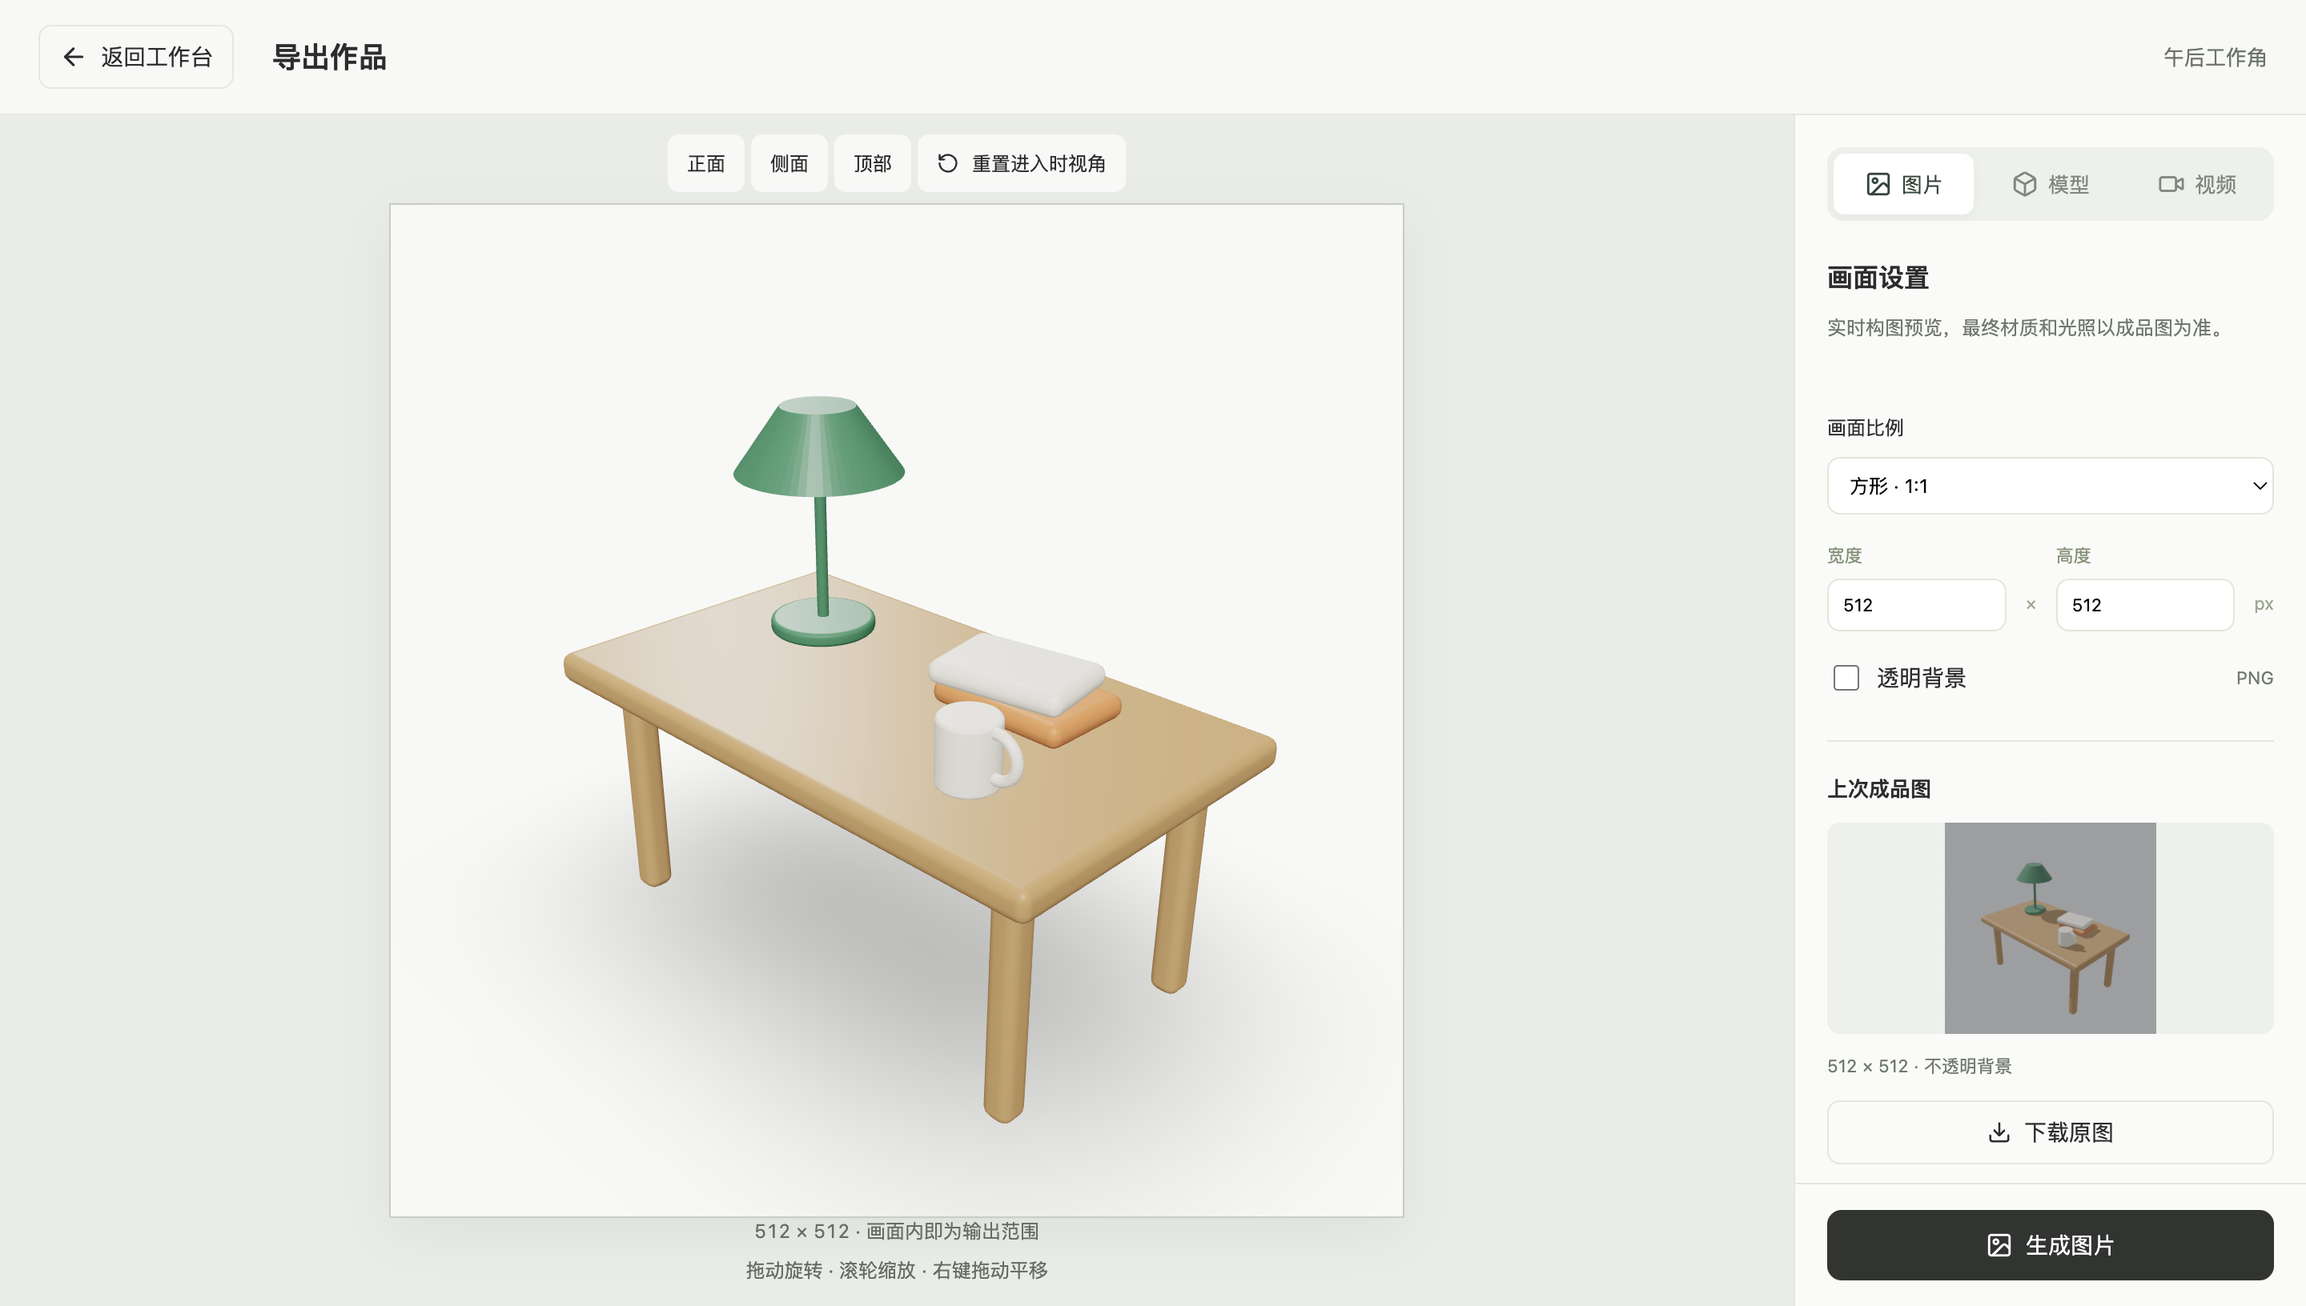
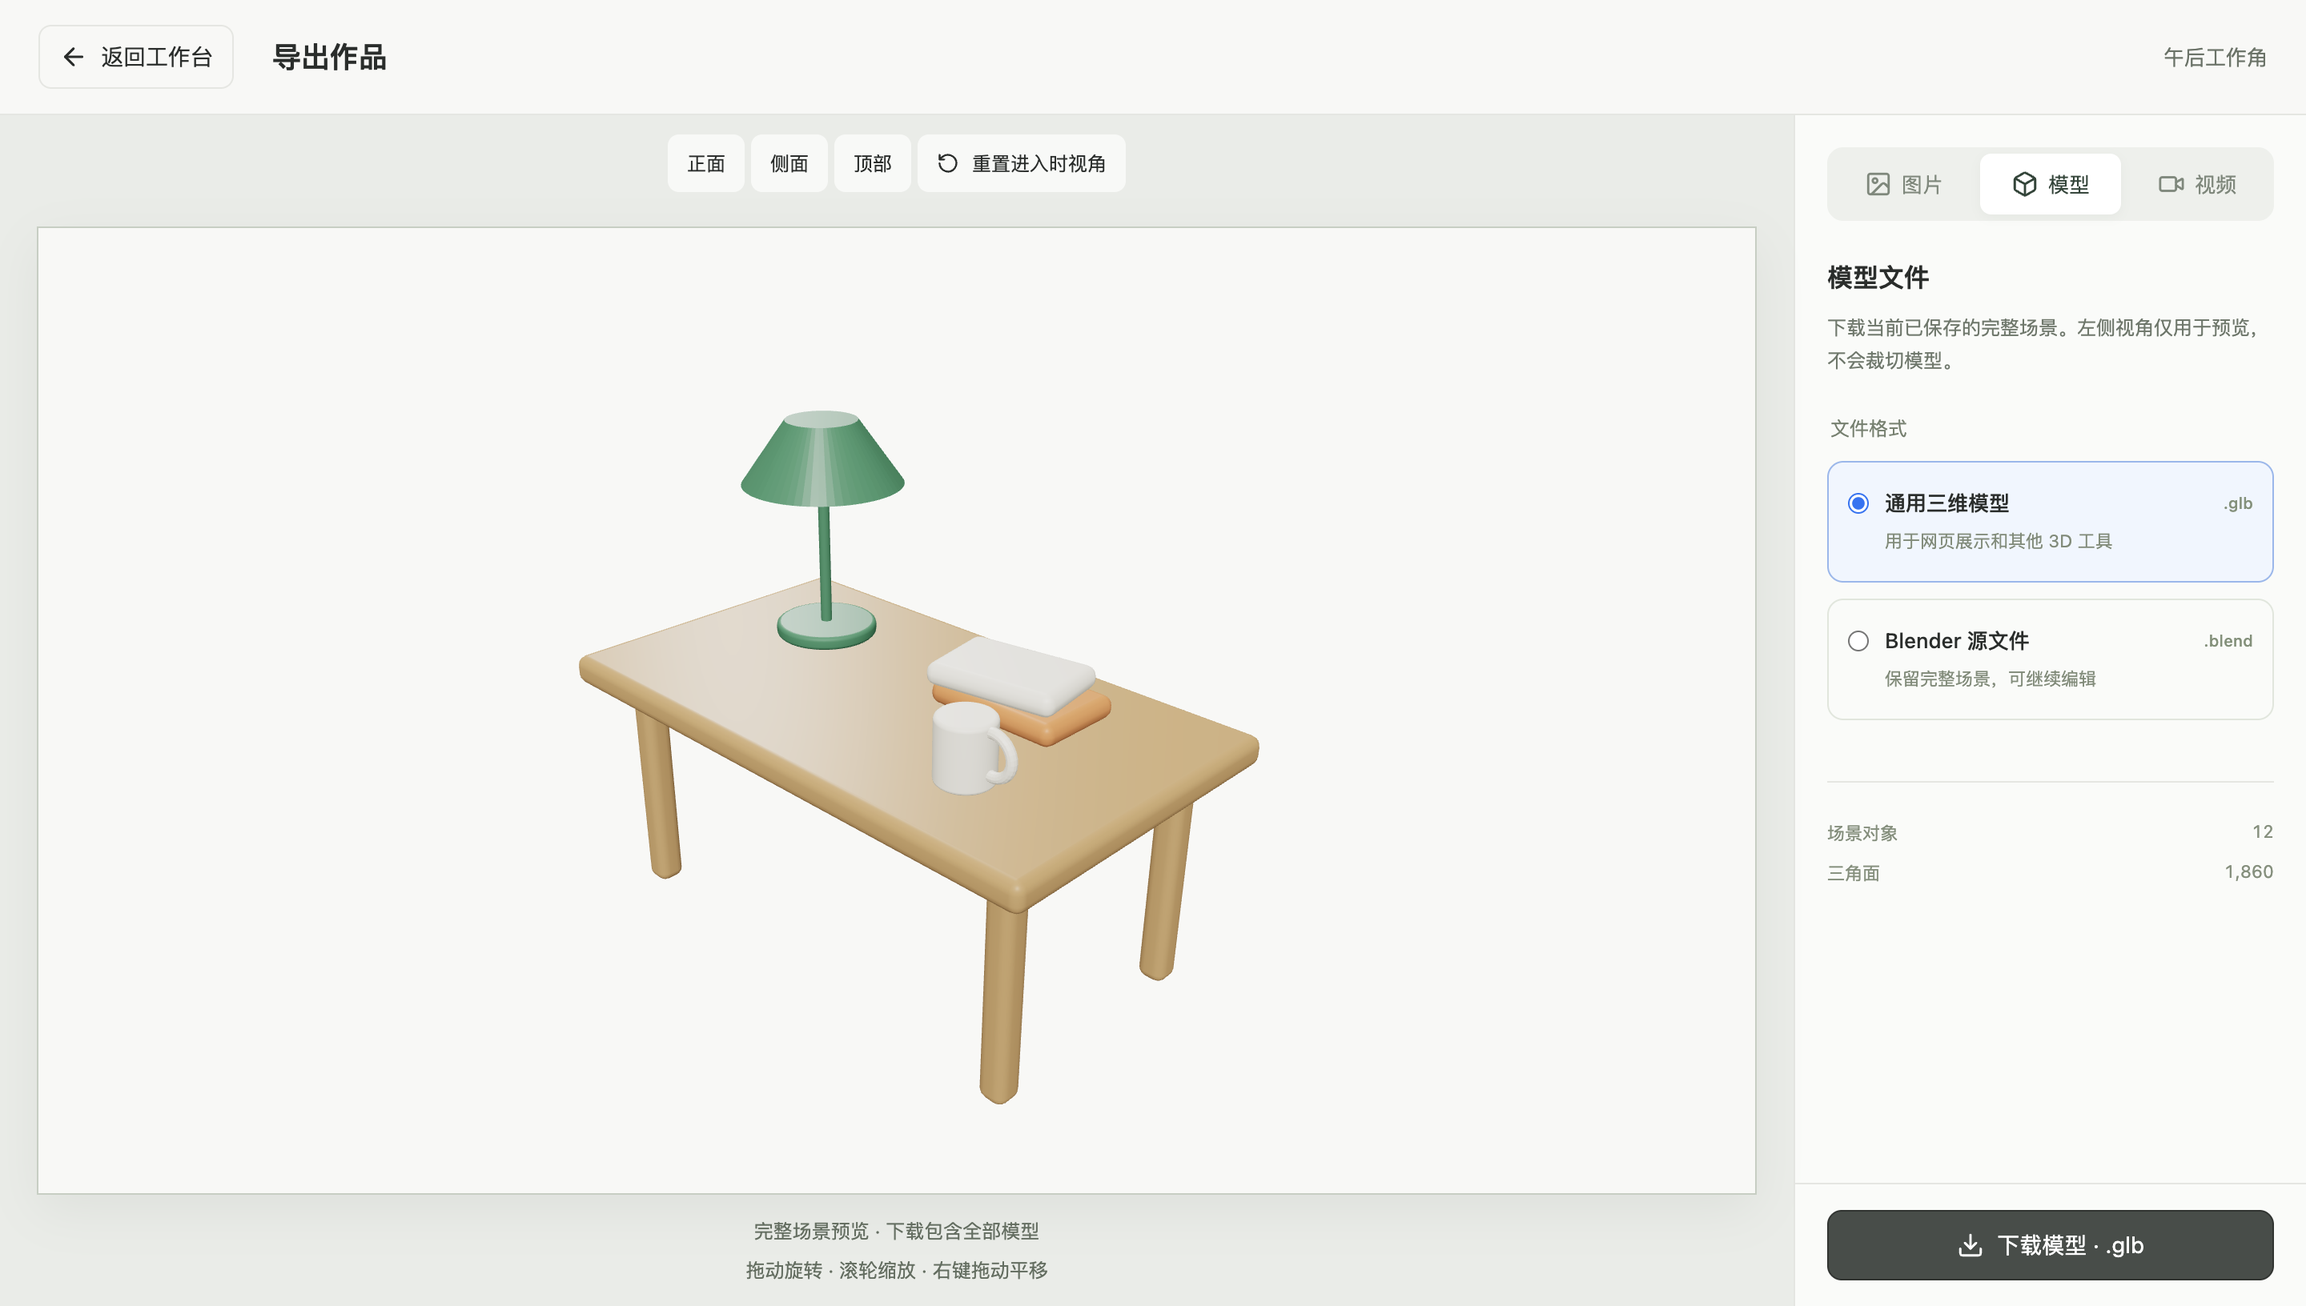
fix(render): preserve authored lighting and use clean grid previews

diff --git a/server/projects.ts b/server/projects.ts
@@ -13,29 +13,26 @@ import {
   project,
   put,
 } from "./store";
-import type { Job, Project, Revision, Render } from "../src/types";
+import type { Job, Project, Revision } from "../src/types";
 
 export function projectLibrary(trash = false) {
   return list<Project>("project")
     .filter((p) => !!p.deletedAt === trash)
     .map((p) => {
       const revisions = list<Revision>("revision", p.id);
-      const render = list<Render>("render", p.id).reverse().find((r) => r.revisionId === p.currentRevisionId);
       return {
         ...p,
         updatedAt: p.updatedAt || revisions.at(-1)?.createdAt || p.createdAt,
         activeJob: activeJob(p.id),
-        coverUrl:
-          render?.revisionId === p.currentRevisionId
-            ? `/api/artifacts/${render.artifactId}`
-            : savedCover(p.id, p.currentRevisionId),
+        coverUrl: savedCover(p.id, p.currentRevisionId),
       };
     })
     .sort((a, b) => b.updatedAt.localeCompare(a.updatedAt));
 }
 export function trashProject(id: string, restore = false) {
   const p = project(id, true);
-  if (blenderBridge.matches(id)) throw new Error("请先同步或另存 Blender 修改并断开连接，再移除作品");
+  if (blenderBridge.matches(id))
+    throw new Error("请先同步或另存 Blender 修改并断开连接，再移除作品");
   if (activeJob(id) || videoUploads.has(id))
     throw Object.assign(new Error("作品正在执行任务，请先等待完成或停止任务"), {
       statusCode: 409,
@@ -53,7 +50,8 @@ export function trashProject(id: string, restore = false) {
 }
 export function purgeProject(id: string) {
   const p = project(id, true);
-  if (blenderBridge.matches(id)) throw new Error("请先同步或另存 Blender 修改并断开连接，再移除作品");
+  if (blenderBridge.matches(id))
+    throw new Error("请先同步或另存 Blender 修改并断开连接，再移除作品");
   if (!p.deletedAt || activeJob(id) || videoUploads.has(id))
     throw Object.assign(new Error("请先将空闲作品移入回收站"), {
       statusCode: 409,

diff --git a/src/Viewport.tsx b/src/Viewport.tsx
@@ -3,7 +3,6 @@ import {
   OrbitControls,
   TransformControls,
   Grid,
-  ContactShadows,
   GizmoHelper,
   GizmoViewport,
 } from "@react-three/drei";
@@ -45,6 +44,7 @@ export type ViewportProps = {
   frameAspect?: number;
   imageAspect?: number;
   transparentPreview?: boolean;
+  showGrid?: boolean;
   controlsEnabled?: boolean;
 };
 const C = new THREE.Matrix4().makeRotationX(-Math.PI / 2),
@@ -360,16 +360,16 @@ function Content({
         <directionalLight position={[4, 7, 5]} intensity={2.5} />
         <directionalLight position={[-4, 3, -3]} intensity={1} />
       </>}
-      {!props.readOnly && (
+      {props.showGrid !== false && !props.transparentPreview && (
         <Grid
           infiniteGrid
           position={[0, -0.006, 0]}
           cellSize={0.25}
           sectionSize={1}
-          cellColor="#dfdfdc"
-          sectionColor="#cfcfca"
-          cellThickness={0.5}
-          sectionThickness={0.8}
+          cellColor="#d9dfdc"
+          sectionColor="#aebbb5"
+          cellThickness={0.6}
+          sectionThickness={1}
           fadeDistance={20}
           fadeStrength={1.5}
         />
@@ -395,18 +395,6 @@ function Content({
             while (n && !n.userData.forma_id) n = n.parent;
             props.onSelect(n?.userData.forma_id || null);
           }}
-        />
-      )}
-      {group && (
-        <ContactShadows
-          key={props.url || "empty"}
-          position={[0, -0.003, 0]}
-          opacity={0.3}
-          scale={20}
-          blur={2.5}
-          far={8}
-          resolution={512}
-          frames={1}
         />
       )}
       <OrbitControls

diff --git a/server/covers.ts b/server/covers.ts
@@ -4,7 +4,13 @@ import sharp from "sharp";
 import { DATA } from "./config";
 import { db, get, project, put, revision, uid } from "./store";
 
-type Cover = { id: string; projectId: string; artifactId: string };
+const COVER_STYLE_VERSION = 2;
+type Cover = {
+  id: string;
+  projectId: string;
+  artifactId: string;
+  styleVersion?: number;
+};
 type ImageArtifact = {
   id: string;
   projectId: string;
@@ -18,6 +24,7 @@ export function savedCover(projectId: string, revisionId: string | null) {
   const cover = get<Cover>("cover", revisionId);
   const image = cover && get<ImageArtifact>("artifact", cover.artifactId);
   return cover?.projectId === projectId &&
+    cover.styleVersion === COVER_STYLE_VERSION &&
     image?.projectId === projectId &&
     fs.existsSync(image.path)
     ? `/api/artifacts/${image.id}`
@@ -69,7 +76,12 @@ export async function saveCover(
         mime: "image/jpeg",
         name: "作品封面.jpg",
       });
-      put("cover", { id: revisionId, projectId, artifactId: id });
+      put("cover", {
+        id: revisionId,
+        projectId,
+        artifactId: id,
+        styleVersion: COVER_STYLE_VERSION,
+      });
     })();
   } catch (error) {
     fs.rmSync(file, { force: true });

diff --git a/src/App.tsx b/src/App.tsx
@@ -527,6 +527,7 @@ export function App() {
             controlsEnabled={!imageExport || !busy}
             imageAspect={imageExport ? compositionAspect : undefined}
             transparentPreview={transparentExport}
+            showGrid={!recording && !imageExport}
             onCameraChange={onCameraChange}
             frameAspect={imageExport ? undefined : recording?recording.width/recording.height:renderView ? frameAspect : undefined}
             onSelect={id=>{if(!recording&&!imageExport)selectObject(id)}}

diff --git a/scripts/verify-render-lighting.py b/scripts/verify-render-lighting.py
@@ -1,0 +1,52 @@
+"""Run with Blender --background --factory-startup --python this_file.
+Verifies export preparation preserves authored lighting without saving a scene.
+"""
+import bpy
+import json
+import pathlib
+import sys
+sys.path.insert(0, str(pathlib.Path(__file__).resolve().parent.parent / 'blender'))
+from appearance import ensure_render_lighting
+
+scene = bpy.context.scene
+world = scene.world
+world.use_nodes = True
+background = world.node_tree.nodes.get('Background')
+background.inputs['Color'].default_value = (.105, .125, .15, 1)
+background.inputs['Strength'].default_value = .45
+scene.view_settings.view_transform = 'AgX'
+scene.view_settings.exposure = -.3
+light = next(o for o in scene.objects if o.type == 'LIGHT')
+light.data.energy = 1100
+light.data.color = (1, .85, .66)
+light.data.shadow_soft_size = 1.5
+
+def snapshot():
+    return (scene.world.as_pointer(), list(background.inputs['Color'].default_value),
+            background.inputs['Strength'].default_value,
+            [(l.from_node.name, l.from_socket.name, l.to_node.name, l.to_socket.name)
+             for l in world.node_tree.links],
+            [(o.name, o.data.type, o.data.energy, tuple(o.data.color), o.hide_render,
+              tuple(o.matrix_world[:])) for o in scene.objects if o.type == 'LIGHT'],
+            scene.view_settings.view_transform, scene.view_settings.exposure)
+
+before = snapshot()
+ensure_render_lighting(scene)
+assert snapshot() == before, 'Legacy authored world or lights changed during export'
+# Linked environment inputs and later edits take precedence over old metadata.
+color = world.node_tree.nodes.new('ShaderNodeRGB')
+world.node_tree.links.new(color.outputs[0], background.inputs['Color'])
+scene['forma_lighting'] = json.dumps({'worldColor': '#ffffff', 'worldStrength': 2,
+                                    'exposure': 1, 'viewTransform': 'Standard'})
+before = snapshot()
+ensure_render_lighting(scene)
+assert snapshot() == before, 'Linked world or current color management changed'
+# A scene with missing resources still gets a usable fallback, just once.
+for o in list(scene.objects):
+    if o.type == 'LIGHT': bpy.data.objects.remove(o, do_unlink=True)
+scene.world = None
+ensure_render_lighting(scene)
+ensure_render_lighting(scene)
+assert scene.world is not None
+assert len([o for o in scene.objects if o.type == 'LIGHT']) == 1
+print('FORMA_RENDER_LIGHTING_PRESERVED: legacy world, linked world, lights, color management, fallback')

diff --git a/blender/worker.py b/blender/worker.py
@@ -4,7 +4,7 @@ Generated code only runs in 'execute'. A fresh process reopens and validates it.
 import bpy, sys, json, os, uuid, math, hashlib
 from mathutils import Vector, Matrix
 sys.path.insert(0,os.path.dirname(__file__))
-from appearance import adjust_material,bake_portable,configure_world
+from appearance import adjust_material,bake_portable,ensure_render_lighting
 args=sys.argv[sys.argv.index('--')+1:]
 mode, directory=args[0], args[1]
 def file(name): return os.path.join(directory,name)
@@ -142,12 +142,7 @@ elif mode=='render':
     scene.render.engine='BLENDER_EEVEE_NEXT'
     settings=c.get('settings',{});scene.render.resolution_x=settings.get('width',1280);scene.render.resolution_y=settings.get('height',720);scene.render.resolution_percentage=100;scene.render.image_settings.file_format='PNG';scene.render.filepath=file('render.png')
     scene.render.film_transparent=bool(settings.get('transparent',False));scene.render.image_settings.color_mode='RGBA' if scene.render.film_transparent else 'RGB'
-    if not scene.world:scene.world=bpy.data.worlds.new('世界')
-    scene.world.use_nodes=True;bg=scene.world.node_tree.nodes.get('Background')
-    if bg and not scene.get('forma_lighting'):bg.inputs['Color'].default_value=(.75,.78,.82,1);bg.inputs['Strength'].default_value=.5
-    configure_world(scene)
-    if not any(o.type=='LIGHT' for o in scene.objects):
-        d=bpy.data.lights.new('预览补光','SUN');d.energy=2;o=bpy.data.objects.new('预览补光',d);scene.collection.objects.link(o);o.rotation_euler=(.45,-.5,-.5)
+    ensure_render_lighting(scene)
     bpy.ops.render.render(write_still=True)
 else:raise ValueError('未知执行模式')
 print('FORMA_WORKER_OK',mode)

diff --git a/blender/video.py b/blender/video.py
@@ -2,7 +2,7 @@
 import bpy, sys, os, json, math, time
 from mathutils import Vector, Matrix
 sys.path.insert(0,os.path.dirname(__file__))
-from appearance import configure_world
+from appearance import ensure_render_lighting
 mode, root = sys.argv[sys.argv.index('--')+1:]
 def file(name): return os.path.join(root,name)
 def read(name):
@@ -24,12 +24,7 @@ else:
     bpy.ops.wm.open_mainfile(filepath=file('base.blend'),load_ui=False,use_scripts=False)
     scene=bpy.context.scene;scene.render.engine='BLENDER_EEVEE_NEXT';scene.render.resolution_x=settings['width'];scene.render.resolution_y=settings['height'];scene.render.resolution_percentage=100
     scene.render.film_transparent=False;scene.render.image_settings.file_format='PNG';scene.render.image_settings.color_mode='RGB'
-    if not scene.world:scene.world=bpy.data.worlds.new('世界')
-    scene.world.use_nodes=True;bg=scene.world.node_tree.nodes.get('Background')
-    if bg and not scene.get('forma_lighting'):bg.inputs['Color'].default_value=(.75,.78,.82,1);bg.inputs['Strength'].default_value=.5
-    configure_world(scene)
-    if not any(o.type=='LIGHT' for o in scene.objects):
-        d=bpy.data.lights.new('预览补光','SUN');d.energy=2;o=bpy.data.objects.new('预览补光',d);scene.collection.objects.link(o);o.rotation_euler=(.45,-.5,-.5)
+    ensure_render_lighting(scene)
     data=bpy.data.cameras.new('FormaVideoCamera');cam=bpy.data.objects.new('FormaVideoCamera',data);scene.collection.objects.link(cam);scene.camera=cam;data.sensor_fit='VERTICAL';data.sensor_height=24
     def cv(v):return Vector((v[0],-v[2],v[1]))
     def pose(c):

diff --git a/blender/appearance.py b/blender/appearance.py
@@ -89,6 +89,21 @@ def configure_world(scene):
     n.inputs['Color'].default_value=(*rgb(settings['worldColor']),1);n.inputs['Strength'].default_value=settings['worldStrength']
     scene.view_settings.view_transform=settings.get('viewTransform','Standard');scene.view_settings.look='None';scene.view_settings.exposure=settings['exposure'];scene.view_settings.gamma=1
 
+def ensure_render_lighting(scene):
+    """Keep the saved scene's world graph, light rig and color management.
+
+    Legacy scenes have no forma_lighting metadata; that does not mean their
+    deliberately authored lighting is missing. Only supply genuinely absent
+    resources in this disposable render process, never rewrite the source file.
+    """
+    if scene.world is None:
+        scene.world=bpy.data.worlds.new('预览环境')
+        scene.world.use_nodes=True
+    if not any(o.type=='LIGHT' for o in scene.objects):
+        data=bpy.data.lights.new('预览补光','SUN');data.energy=2
+        light=bpy.data.objects.new('预览补光',data);scene.collection.objects.link(light)
+        light.rotation_euler=(.45,-.5,-.5)
+
 def base_material(item):
     mat=bpy.data.materials.new('外观·'+item['id'][:8]);mat.use_nodes=True;n=node(mat)
     n.inputs['Base Color'].default_value=(*rgb(item['color']),1);n.inputs['Roughness'].default_value=item['roughness'];n.inputs['Metallic'].default_value=item['metalness']

diff --git a/docs/DESKTOP-ACCEPTANCE.md b/docs/DESKTOP-ACCEPTANCE.md
@@ -17,6 +17,8 @@
 | Blender 环境 | 建模与渲染沙箱检查通过 |
 | 模型导出 | GLB 与 Blender 源文件下载完成，文件头验证通过 |
 | 图片导出 | 真实 Blender 512×512 PNG 渲染与下载通过 |
+| 灯光保留 | Blender 实例验证旧场景 World、已连接环境节点、灯光与色彩管理不被导出准备覆盖；真实既有作品副本前后渲染对照通过 |
+| 网格与封面 | 建模视口和只读封面显示网格；旧封面重新生成，原封面文件与模型保留；导出画面不叠加辅助网格 |
 | 实时视频 | 640×360 短录制、回放尺寸、保存到作品与下载通过 |
 | 退出与重启 | 后台进程与数据锁释放，重启后作品恢复 |
 
@@ -29,9 +31,17 @@ FORMA_DESKTOP_EXECUTABLE="$PWD/release/mac-arm64/Ai-FormaDesk.app/Contents/MacOS
 FORMA_DESKTOP_MINIMAL_PATH=1 FORMA_DESKTOP_FULL=1 npm run test:desktop
 ```
 
+灯光保留回归（使用临时 Blender 场景，不保存用户文件）：
+
+```sh
+"/Applications/Blender 4.5 LTS.app/Contents/MacOS/Blender" \
+  --background --factory-startup --disable-autoexec --python scripts/verify-render-lighting.py
+```
+
 ## 边界
 
 - 本轮验证的是桌面封装与当前工作台回归，没有重新做所有图片类别的 AI 建模效果验收；三视图不是照片精确重建保证。
+- 交互预览与 Blender 渲染使用不同渲染器，旧作品预览可能有额外补光；正式导出以保存的 Blender 场景灯光和材质为准。
 - 实时视频验证为短录制，未把目标 60 fps 当作持续实测值。精细视频功能沿用当前工作台，未在本次桌面回归中重新做长视频验收。
 - 本地 ad-hoc 签名用于应用完整性；不等于 Apple Developer ID 签名、公证或 App Store 分发。
 - macOS 13 的最低要求来自 [Electron 44 发布说明](https://www.electronjs.org/blog/electron-44-0)，本轮实机系统为 macOS 26.6.2。

diff --git a/CHANGELOG.md b/CHANGELOG.md
@@ -14,7 +14,9 @@
 
 - 文字与图片讨论、建模方案执行、任务进度与失败诊断。
 - 实时画布、对象变换与材质修改、撤销重做、历史版本和作品库。
+- 建模视口与作品封面默认显示网格地面，移除产生块状伪影的预览阴影层；旧封面自动更新。
 - 图片取景、模型下载、实时视频录制与 Blender 精细视频导出。
+- 图片与精细视频保留原场景灯光、世界环境节点和色彩管理，修复旧作品导出环境被强制改灰的问题。
 - 单轮三视图图片建模流程与可选 Blender MCP 编辑联动。
 
 ### 已知边界
